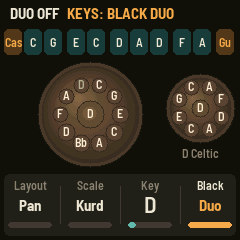
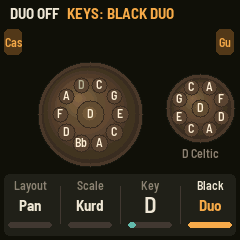
Screen: with Duo, the strip shows only its end keys
The second pan shows its notes on itself; the strip showed them again.
With Duo it now draws only the castanets and the Gu, and the second pan's
keys' place stays empty. VERSION 0.4.2.

Changed region(s): [[0.0875, 0.1167, 0.9042, 0.2333]]

diff --git a/web/emu/index.html b/web/emu/index.html
@@ -149,7 +149,7 @@ footer { margin: 2rem 0 0; color: var(--muted); font-size: .88rem; }
       <li>Past the pan's own fields, the outer note keys carry the scale on up, like an extended "mutant" pan.</li>
       <li>The <b>two white keys at each end</b> are the steel: a palm <b>thwap</b> on the end key, a fingertip <b>tak</b> on the next one in, each on its own side of the shell.</li>
       <li>The <b>black keys</b> are the kit: <b>castanets</b> on the far left, then a <b>shaker</b> (an egg, pushed), <b>Gu</b> (a slap on the bottom port), <b>ghost</b> note, <b>ding slap</b>, <b>tak</b>, the ding's <b>harmonic</b>, <b>rim</b> knock, <b>mute</b>, the <b>shaker</b> pulled back, and a <b>splash</b> cymbal on the far right.</li>
-      <li>Set <b>Black</b> to <b>Duo</b> (SEL) and the nine black keys between the castanets and the <b>Gu</b> (now far right) become a second handpan whose scale fits with the first, in the same register, laid out like the white keys: its ding in the middle, its notes alternating outward. Its keys show above the pans on the screen.</li>
+      <li>Set <b>Black</b> to <b>Duo</b> (SEL) and the nine black keys between the castanets and the <b>Gu</b> (now far right) become a second handpan whose scale fits with the first, in the same register, laid out like the white keys: its ding in the middle, its notes alternating outward. Its notes show on its own pan on the screen.</li>
       <li><b>ARP</b> starts a groove (hold it for its settings). <b>REC</b> mutes. <b>PLAY</b> freezes the grain cloud. <b>OCT−</b> / <b>OCT+</b> move the pan an octave.</li>
     </ul>
   </div>

diff --git a/firmware/src/app/ui.c b/firmware/src/app/ui.c
@@ -949,28 +949,22 @@ static void draw_pan(int32_t y0, int32_t y1)
     }
 }
 
-/* the black keys, as a strip: the steel's kit in the middle (or the second pan's notes), the hand
- * percussion round it */
+/* the black keys, as a strip: the steel's kit in the middle, the hand percussion round it. With Duo
+ * only the end keys: the second pan between shows its own notes, and its keys' room stays empty */
 static void draw_black(int32_t y0)
 {
     int b;
     for (b = 0; b < NBLACK; b++) {
         char t[12];
         int32_t x = 4 + b * 20 + ((b >= 3) + (b >= 5) + (b >= 8) + (b >= 10)) * 3;   /* grouped as the keys are */
-        int on = (ui.keys >> BLACK_K[b] & 1u) != 0,
-            hand = proj.par[P_BLACK] == BLK_DUO ? !is_duo_key(b) : b < 2 || b > NBLACK - 3;
+        int on = (ui.keys >> BLACK_K[b] & 1u) != 0, hand = proj.par[P_BLACK] == BLK_DUO || b < 2 || b > NBLACK - 3;
         uint16_t bg = hand ? K_ACC_T : K_TEAL_T, fg = hand ? K_ACC : K_TEXT;
-        if (is_duo_key(b)) {
-            const int c = duo_cents(duo_index(b));
-            s_cpy(t, note_name(c));
-            if (note_level(c) > 0.15f)
-                on = 1;
-        } else {
-            const int k = black_hit(b);
-            s_cpy(t, HIT_NAME[k]);
-            if (ripple_age(ui.hit_t[k]) < 12u)
-                on = 1;
-        }
+        const int k = black_hit(b);
+        if (is_duo_key(b))
+            continue;
+        s_cpy(t, HIT_NAME[k]);
+        if (ripple_age(ui.hit_t[k]) < 12u)
+            on = 1;
         if (on) {
             bg = hand ? K_ACC : K_TEAL;
             fg = K_WHITE;

diff --git a/README.md b/README.md
@@ -247,8 +247,9 @@ of nothing, keeps everything. The Setup page is kept either way.
   sends a ripple out when struck. A thwap or tak lights the rim on that side; the Gu breathes in a
   ring round the ding. With Duo, the second pan stands to the right.
 - **The black-key strip:** what each black key does now, above the pan, as the black keys sit above
-  the white. The hand percussion (castanets, shakers, splash) is
-  amber, the steel's kit or the second pan's notes teal, and each lights as it sounds.
+  the white. The hand percussion (castanets, shakers, splash) is amber, the steel's kit teal, and
+  each lights as it sounds. With Duo it shows only the two end keys (castanets, Gu): the second pan
+  shows its own notes, and their place in the strip stays empty.
 - **The knobs:** the page's four values. The one you turned is highlighted for a moment.
 
 ## The scales

diff --git a/CHANGELOG.md b/CHANGELOG.md
@@ -4,6 +4,11 @@ A release is a push to `main` that changes `VERSION` to a version with no tag ye
 release build, tags the commit `vX.Y.Z` and publishes the GitHub Release with that version's notes,
 taken from its section below. Add the section in the same pull request as the `VERSION` change.
 
+## 0.4.2
+
+- **With Duo, the key strip shows only the castanets and the Gu.** The second pan's notes are on the
+  second pan itself, so their place in the strip is left empty.
+
 ## 0.4.1
 
 - **The splash sounds like a cymbal slapped by hand.** It's now a soft wash from 500 Hz to 16 kHz that
